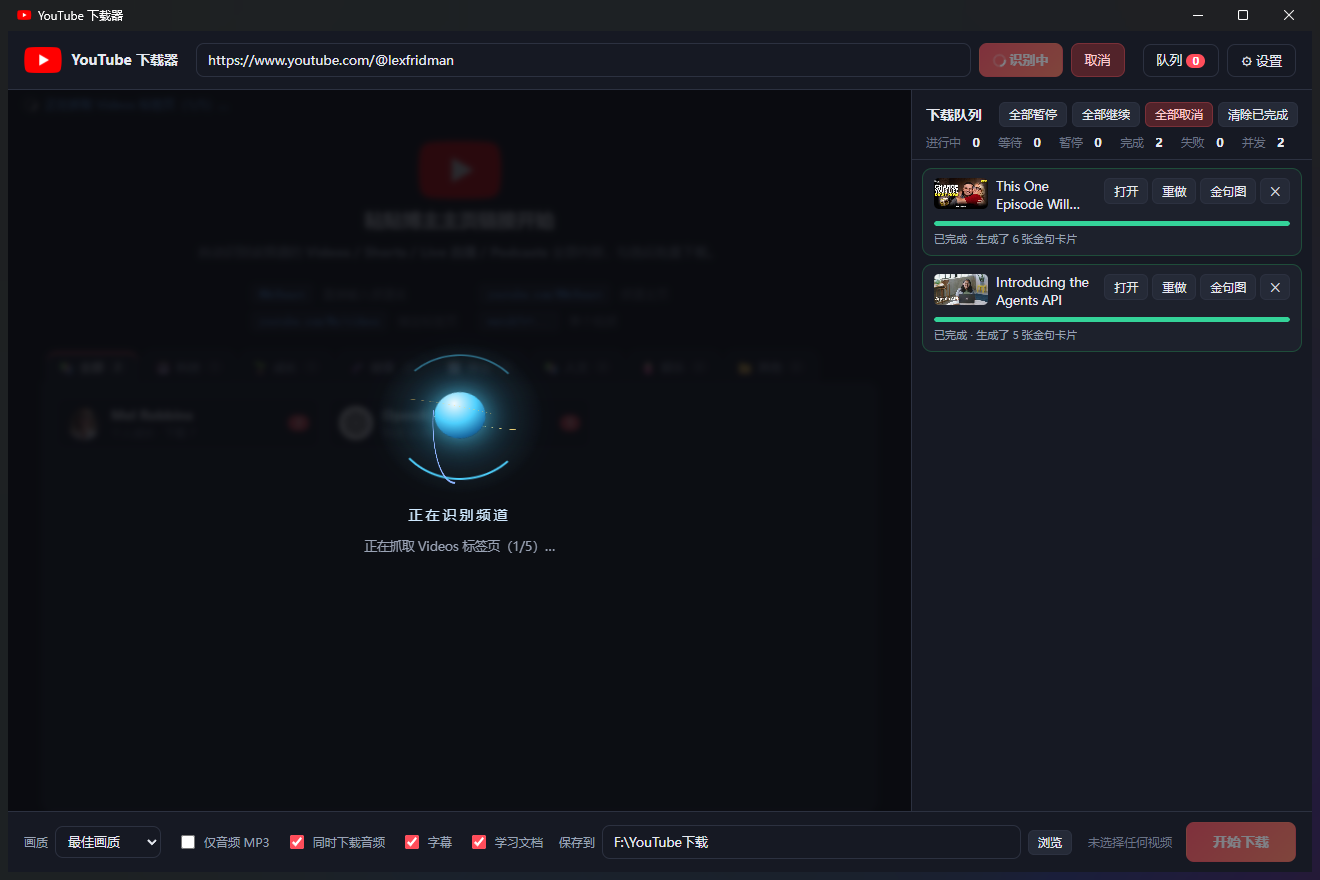
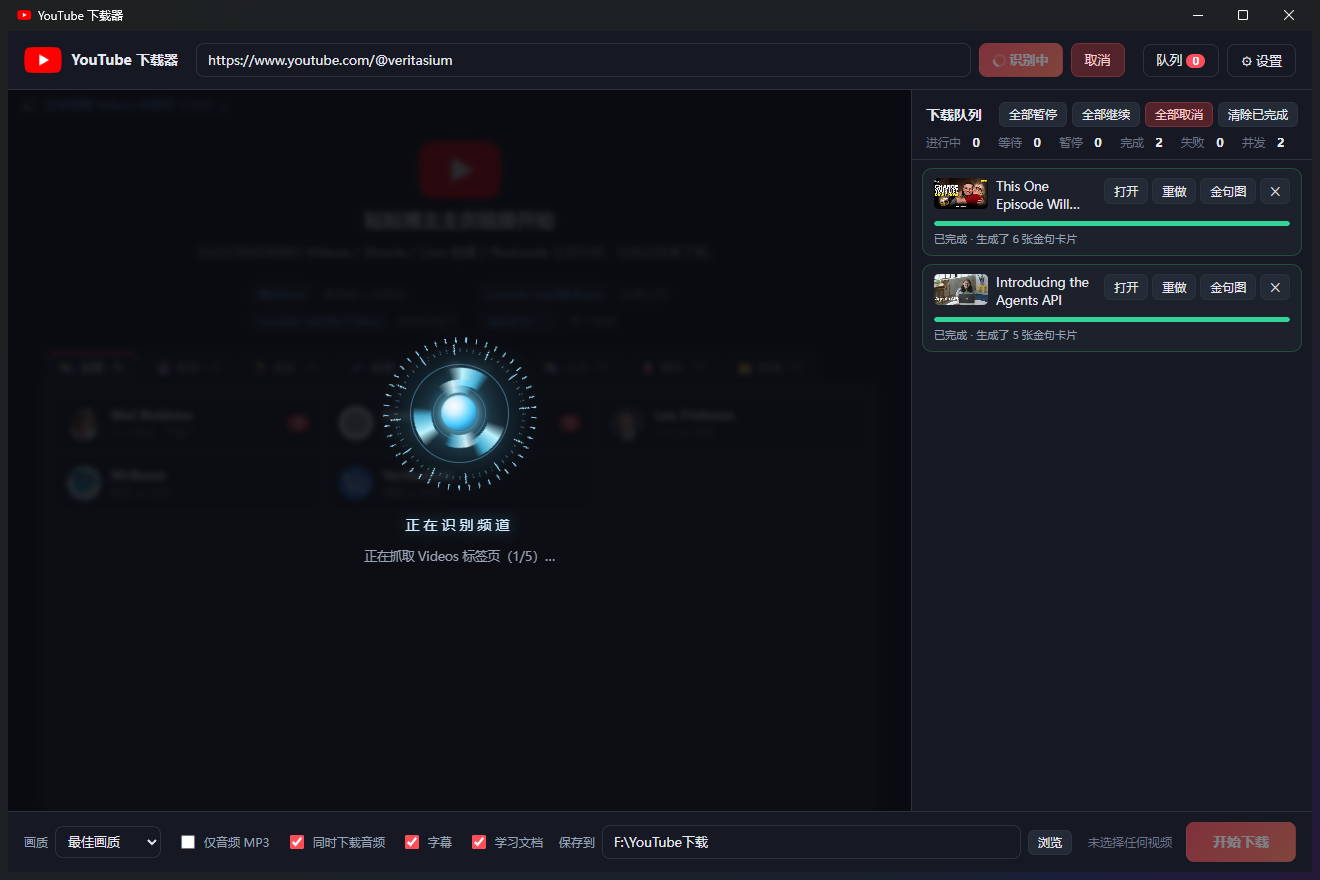
v1.14.1: 贾维斯球改成 HUD 仪表盘风格
原来的球是「三个环 + 一个核心」，太简单。改成参考 HUD 仪表盘的层次，
由外到内共九层：
外发光 → 点阵环 → 主刻度环（每 30°）→ 次刻度环（每 6°）
→ 外细线环 → 旋转弧刃 ×2 → 内环 → 发光核心

刻度与点阵用 repeating-conic-gradient 画，再用 radial-gradient 遮罩裁成环带，
不用任何图片或 SVG。两层弧刃反向旋转做出涡轮感。

踩到的坑：图层全部塌在一起。
第一版渲染出来只剩一个白球。原因是 CSS 特异性：
  .jv-orb > span { inset: 0 }   特异性 (0,1,1)
  .jv-core { inset: 38% }       特异性 (0,1,0) —— 被上面覆盖
子选择器比单独的类名更具体，各层定位全被重置成 inset:0，后面的盖住前面的。
修法：基础规则里不写 inset，只留 position/border-radius，让各层自己声明。

第二个问题：太糊，不像 HUD。
初版外发光（drop-shadow 18px / 核心 box-shadow 56px）过重，把锐利的刻度和弧刃
糊成一片光晕。收窄到 9px / 30px，并把弧刃的明暗过渡改短。

验证方式：截图后用 ffmpeg 裁出球的区域放大 3 倍看细节——
全屏截图里球太小，看不清层次对不对。

Changed region(s): [[0.2795, 0.3989, 0.4038, 0.6443], [0.2795, 0.0614, 0.3417, 0.092], [0.2485, 0.5216, 0.2795, 0.583]]

diff --git a/src/renderer/styles.css b/src/renderer/styles.css
@@ -418,60 +418,139 @@ input::placeholder {
   gap: 14px;
   background: rgba(9, 11, 15, 0.86);
   backdrop-filter: blur(3px);
-  perspective: 760px;
 }
+/* 贾维斯球：HUD 风格 —— 由外到内是
+   外发光 → 点状环 → 主刻度环 → 次刻度环 → 外细线环 → 旋转弧刃 ×2 → 内环 → 发光核心。
+   刻度/点阵都用 repeating-conic-gradient 画，再用 radial-gradient 遮罩裁成"环带"，
+   这样不用任何图片或 SVG，纯 CSS 就能做出仪表盘的层次。 */
 .jv-orb {
   position: relative;
-  width: 138px;
-  height: 138px;
-  transform-style: preserve-3d;
-  animation: jv-tilt 7s ease-in-out infinite;
+  width: 156px;
+  height: 156px;
+  /* 外发光要克制：太重会把刻度环和弧刃糊成一团，失去 HUD 的锐利感（实测对比过） */
+  filter: drop-shadow(0 0 9px rgba(79, 209, 255, 0.22));
 }
-.jv-ring {
+/* 注意：这里【不能】写 inset: 0。
+   .jv-orb > span 的特异性(0,1,1) 高于单独类名(0,1,0)，
+   一旦写了 inset:0，下面 .jv-core { inset:38% } 之类的定位会全部失效，
+   九层图元全部塌在 inset:0 上、互相盖住（实测踩过：只剩一个白球）。 */
+.jv-orb > span {
   position: absolute;
+  border-radius: 50%;
+}
+/* 需要铺满整层的显式声明 */
+.jv-dots,
+.jv-ticks,
+.jv-blade {
   inset: 0;
-  border-radius: 50%;
-  border: 2px solid transparent;
-  animation: jv-spin 1.8s linear infinite;
 }
-/* rotate 独立属性做倾斜，transform 交给动画转 —— 两者会叠加。
-   这样三个环就能绕不同轴转，形成陀螺仪（而不是三个平面的同心圆）。 */
-.jv-r1 {
-  border-top-color: #4fd1ff;
-  border-bottom-color: rgba(79, 209, 255, 0.45);
+
+/* 外发光：范围收小，只做氛围不抢戏 */
+.jv-halo {
+  inset: -18px;
+  background: radial-gradient(circle closest-side, rgba(79, 209, 255, 0.18), rgba(79, 209, 255, 0.05) 60%, transparent 72%);
+  animation: jv-pulse 2.6s ease-in-out infinite;
 }
-.jv-r2 {
-  rotate: x 72deg;
-  border-left-color: #ffd166;
-  border-right-color: rgba(255, 209, 102, 0.4);
-  animation-duration: 2.6s;
-  animation-direction: reverse;
+
+/* 最外圈：细密点阵，缓慢反向转 */
+.jv-dots {
+  background: repeating-conic-gradient(
+    from 0deg,
+    rgba(150, 226, 255, 0.9) 0deg 1deg,
+    transparent 1deg 8deg
+  );
+  -webkit-mask: radial-gradient(circle closest-side, transparent 0 91%, #000 91.5% 98%, transparent 98.5%);
+  mask: radial-gradient(circle closest-side, transparent 0 91%, #000 91.5% 98%, transparent 98.5%);
+  animation: jv-spin 26s linear infinite reverse;
 }
-.jv-r3 {
-  rotate: y 72deg;
-  border-top-color: #8fb4ff;
-  animation-duration: 1.25s;
+
+/* 主刻度环：每 30° 一根长刻度 */
+.jv-ticks {
+  background: repeating-conic-gradient(
+    from 0deg,
+    rgba(170, 232, 255, 0.95) 0deg 0.9deg,
+    transparent 0.9deg 30deg
+  );
+  -webkit-mask: radial-gradient(circle closest-side, transparent 0 76%, #000 76.5% 89%, transparent 89.5%);
+  mask: radial-gradient(circle closest-side, transparent 0 76%, #000 76.5% 89%, transparent 89.5%);
+  animation: jv-spin 40s linear infinite;
 }
-.jv-glow {
-  position: absolute;
-  inset: -20px;
-  border-radius: 50%;
-  background: radial-gradient(circle, rgba(79, 209, 255, 0.22), transparent 66%);
-  animation: jv-pulse 2.4s ease-in-out infinite;
+/* 次刻度环：每 6° 一根短刻度，更暗更短 */
+.jv-ticks-minor {
+  background: repeating-conic-gradient(
+    from 0deg,
+    rgba(120, 200, 240, 0.5) 0deg 0.7deg,
+    transparent 0.7deg 6deg
+  );
+  -webkit-mask: radial-gradient(circle closest-side, transparent 0 79%, #000 79.5% 84%, transparent 84.5%);
+  mask: radial-gradient(circle closest-side, transparent 0 79%, #000 79.5% 84%, transparent 84.5%);
+  animation: jv-spin 60s linear infinite reverse;
 }
+
+/* 细线环 */
+.jv-line {
+  border: 1px solid rgba(110, 200, 245, 0.45);
+}
+.jv-line-outer {
+  inset: 18%;
+}
+.jv-line-inner {
+  inset: 33%;
+  border-color: rgba(110, 200, 245, 0.3);
+}
+
+/* 弧刃：三段扇形，亮部到暗部的过渡要短，否则会糊成一片光晕 */
+.jv-blade {
+  -webkit-mask: radial-gradient(circle closest-side, transparent 0 36.5%, #000 37.2% 59%, transparent 59.8%);
+  mask: radial-gradient(circle closest-side, transparent 0 36.5%, #000 37.2% 59%, transparent 59.8%);
+}
+.jv-b1 {
+  background: conic-gradient(
+    from 0deg,
+    transparent 0deg 14deg,
+    rgba(190, 245, 255, 1) 32deg,
+    rgba(79, 209, 255, 0.75) 56deg,
+    transparent 68deg,
+    transparent 134deg,
+    rgba(190, 245, 255, 1) 152deg,
+    rgba(79, 209, 255, 0.75) 176deg,
+    transparent 188deg,
+    transparent 254deg,
+    rgba(190, 245, 255, 1) 272deg,
+    rgba(79, 209, 255, 0.75) 296deg,
+    transparent 308deg
+  );
+  animation: jv-spin 3.4s cubic-bezier(0.5, 0, 0.5, 1) infinite;
+}
+.jv-b2 {
+  inset: 13%;
+  background: conic-gradient(
+    from 180deg,
+    transparent 0deg 20deg,
+    rgba(225, 250, 255, 0.95) 46deg,
+    rgba(79, 209, 255, 0.6) 74deg,
+    transparent 86deg,
+    transparent 200deg,
+    rgba(225, 250, 255, 0.95) 226deg,
+    rgba(79, 209, 255, 0.6) 254deg,
+    transparent 266deg
+  );
+  animation: jv-spin 5.2s linear infinite reverse;
+}
+
+/* 发光核心：光晕收窄，别盖住外面的弧刃 */
 .jv-core {
-  position: absolute;
-  inset: 45px;
-  border-radius: 50%;
-  background: radial-gradient(circle at 34% 28%, #f2fbff, #4fd1ff 44%, #1b6fa8 74%, #0c2637);
-  box-shadow: 0 0 24px rgba(79, 209, 255, 0.8), 0 0 62px rgba(79, 209, 255, 0.34);
-  animation: jv-pulse 1.7s ease-in-out infinite;
+  inset: 39%;
+  background: radial-gradient(circle at 36% 30%, #ffffff, #d8f4ff 24%, #4fd1ff 55%, #1a6ea8 84%, #0b2333);
+  box-shadow: 0 0 13px rgba(170, 235, 255, 0.95), 0 0 30px rgba(79, 209, 255, 0.42);
+  animation: jv-pulse 1.8s ease-in-out infinite;
 }
 .jv-title {
-  margin-top: 8px;
+  margin-top: 10px;
   font-size: 14px;
-  letter-spacing: 3px;
-  color: #cfe9ff;
+  letter-spacing: 4px;
+  color: #d6ecff;
+  text-shadow: 0 0 14px rgba(79, 209, 255, 0.5);
 }
 .jv-text {
   font-size: 12.5px;
@@ -483,27 +562,18 @@ input::placeholder {
 
 @keyframes jv-spin {
   to {
-    transform: rotateZ(360deg);
+    transform: rotate(360deg);
   }
 }
 @keyframes jv-pulse {
   0%,
   100% {
     transform: scale(1);
-    opacity: 0.92;
+    opacity: 0.9;
   }
   50% {
-    transform: scale(1.07);
+    transform: scale(1.06);
     opacity: 1;
-  }
-}
-@keyframes jv-tilt {
-  0%,
-  100% {
-    transform: rotateX(12deg) rotateZ(0deg);
-  }
-  50% {
-    transform: rotateX(24deg) rotateZ(14deg);
   }
 }
 

diff --git a/src/renderer/index.html b/src/renderer/index.html
@@ -46,10 +46,14 @@
         <!-- 抓取中的「贾维斯球」：旋转到内容读完为止 -->
         <div id="jarvis" class="jarvis hidden">
           <div class="jv-orb">
-            <span class="jv-ring jv-r1"></span>
-            <span class="jv-ring jv-r2"></span>
-            <span class="jv-ring jv-r3"></span>
-            <span class="jv-glow"></span>
+            <span class="jv-halo"></span>
+            <span class="jv-dots"></span>
+            <span class="jv-ticks"></span>
+            <span class="jv-ticks jv-ticks-minor"></span>
+            <span class="jv-line jv-line-outer"></span>
+            <span class="jv-blade jv-b1"></span>
+            <span class="jv-blade jv-b2"></span>
+            <span class="jv-line jv-line-inner"></span>
             <span class="jv-core"></span>
           </div>
           <div class="jv-title">正在识别频道</div>

diff --git a/CHANGELOG.md b/CHANGELOG.md
@@ -1,5 +1,38 @@
 # 更新日志
 
+## v1.14.1 — 贾维斯球改成 HUD 仪表盘风格（2026-09-12）
+
+原来的球是「三个环 + 一个核心」，太简单。改成参考 HUD 仪表盘的层次，
+由外到内共九层：
+
+**外发光 → 点阵环 → 主刻度环（每 30° 一根）→ 次刻度环（每 6° 一根）
+→ 外细线环 → 旋转弧刃 ×2 → 内环 → 发光核心**
+
+刻度与点阵都用 `repeating-conic-gradient` 画，再用 `radial-gradient` 遮罩裁成"环带"，
+**不用任何图片或 SVG**。两层弧刃反向旋转做出涡轮感。
+
+### 踩到的坑：图层全部塌在一起
+
+第一版渲染出来只剩一个白球，刻度环和弧刃全不见。原因是 CSS 特异性：
+
+```css
+.jv-orb > span { inset: 0 }     /* 特异性 (0,1,1) */
+.jv-core { inset: 38% }         /* 特异性 (0,1,0) —— 被上面覆盖！ */
+```
+
+子选择器 `.jv-orb > span` 比单独的类名更"具体"，所以各层的定位全被重置成 `inset: 0`，
+九层图元叠在同一位置、后面的盖住前面的。
+修法：基础规则里**不写 `inset`**，只留 `position`/`border-radius`，让各层自己声明。
+
+### 第二个问题：太糊，不像 HUD
+
+初版外发光（`drop-shadow` 18px / 核心 `box-shadow` 56px）过重，把锐利的刻度线和弧刃糊成一片光晕。
+收窄到 9px / 30px，并把弧刃的明暗过渡改短，才做出仪表盘的清晰感。
+
+**验证方式**：截图后用 ffmpeg 裁出球的区域放大 3 倍看细节 —— 全屏截图里球太小，看不清层次对没对。
+
+---
+
 ## v1.14.0 — 主页改版：书签式分类库 + 贾维斯球（2026-09-12）
 
 ### ① 主页分成上下两半
